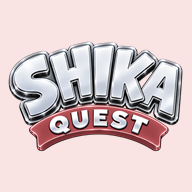
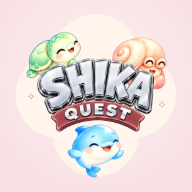
ようせい3体のE案をiPhone・Android用PWAアイコンに反映（1.45）

diff --git a/index.html b/index.html
@@ -7,10 +7,10 @@
   <meta name="description" content="はまべの ゴミを ひろって、うみの ようせいを そだてよう。親子で参加するビーチクリーンイベント用のアプリです。">
   <meta name="theme-color" content="#fbfaf6">
   <link rel="manifest" href="manifest.json">
-  <link rel="icon" href="icons/favicon-32.png?v=1.44" type="image/png" sizes="32x32">
-  <link rel="icon" href="icons/favicon-16.png?v=1.44" type="image/png" sizes="16x16">
-  <link rel="icon" href="icons/favicon-48.png?v=1.44" type="image/png" sizes="48x48">
-  <link rel="apple-touch-icon" href="icons/apple-touch-icon.png?v=1.44" sizes="180x180">
+  <link rel="icon" href="icons/favicon-32.png?v=1.45" type="image/png" sizes="32x32">
+  <link rel="icon" href="icons/favicon-16.png?v=1.45" type="image/png" sizes="16x16">
+  <link rel="icon" href="icons/favicon-48.png?v=1.45" type="image/png" sizes="48x48">
+  <link rel="apple-touch-icon" href="icons/apple-touch-icon.png?v=1.45" sizes="180x180">
   <meta name="application-name" content="しかクエ">
   <meta name="mobile-web-app-capable" content="yes">
   <meta name="apple-mobile-web-app-capable" content="yes">

diff --git a/service-worker.js b/service-worker.js
@@ -16,7 +16,7 @@
  * 動画は 少しずつ（Range で）読まれるため、ここで まとめて 返すと iPhone で 再生 できない ことが ある。
  * 圏外の ときは 動画が 読めず、いままでの 絵（beach.webp。ここで 保存している）の まま になる。
  */
-const APP_VERSION = "1.44";
+const APP_VERSION = "1.45";
 const CACHE = "bct-" + APP_VERSION;
 const FILES = [
   "./",

diff --git a/README.md b/README.md
@@ -1,5 +1,7 @@
 # SHIKA QUEST
 
+**1.45（2026-10-22）**：PWAアイコンを承認済みE案へ変更。ピンクの花形背景にロゴとカメ・ヤドカリ・イルカを配置しました。iPhone用180px、Android用192px・512px・安全域に収めたmaskable版を用意しています。
+
 **1.44（2026-10-22）**：PWA・Appleホーム画面用アイコンの背景を決定案Cの淡いピンク（#F9E3E3）へ変更。大型かいじゅうは元のゴミ画像を活かした「ビニールぶくろ キング」「ペットボトル キング」に変更しました。袋はニヤリ、ボトルはムスッとした表情で、王冠をそれぞれの持ち手・キャップに合わせています。得点・報酬・10回タップのルールは従来どおりです。
 
 **1.43（2026-10-21）**：★3限定の「シュートめいじん賞」（カメ）・「はまべのヒーロー賞」（ヤドカリ）を追加。PWA名は「しかクエ」に変更。初回はスポットライトを浴びた3匹から選び、タップでジャンプ、説明付きの「はい／いいえ」で確認します。バスターズは画面内に収まるレイアウトに変更し、大型かいじゅうを悪魔・どろぼうの姿に描き分けました。
@@ -15,7 +17,7 @@
 1.31では背景と収集車をホームと同じ画風に刷新し、山並みの奥にごみ処理場を描きました。ゴミ6種類はホームと同じアイコンを使用し、木材の表記を「もくざい」に修正しています。
 
 親子で参加するビーチクリーンイベント（想定：30組・約100名）のための、スマホ向けWebアプリ（PWA）です。
-**アプリ名・ブラウザの題名は「SHIKA QUEST」、PWAの表示名は「しかクエ」**です。PWAには銀色と落ち着いた赤のロゴ全体、ブラウザの小さなファビコンには同じ配色のSQを使います。
+**アプリ名・ブラウザの題名は「SHIKA QUEST」、PWAの表示名は「しかクエ」**です。PWAには銀色と落ち着いた赤のロゴと3体のようせい、ブラウザの小さなファビコンには同じ配色のSQを使います。
 テーマは「海がきれいになると、海の仲間が喜んで育つ」。自分の **うみの ようせい**（イルカ・ウミガメ・ヤドカリの姿をした海の妖精）を育てます。
 
 **遊びの流れ（メインループ）**

diff --git a/docs/quest-145.md b/docs/quest-145.md
@@ -1,0 +1,11 @@
+# しかクエ 1.45
+
+承認済みのアイコンE案を採用。花形の明るいピンク背景に、カメ・ヤドカリ・イルカと銀色／落ち着いた赤のロゴを配置。
+
+- iPhone: `icons/apple-touch-icon.png`（180×180、不透明、角丸はOS側で適用）。
+- Android: `icons/icon-192.png`・`icons/icon-512.png`（通常用）と `icons/icon-maskable-512.png`（切り抜き用）。
+- maskable版はキャラクターとロゴの実際の不透明画素から必要な縮小率を算出。中央の半径40%の安全域からさらに8px内側へ収め、背景は端まで描画。
+- PWA名「しかクエ」は維持。アイコン参照とサービスワーカーを1.45へ更新。
+- 再生成: `node tools/export-fairy-pwa-icons.mjs`。`tools/pwa-icon-E.svg`の配置と既存の`assets/opening`の画像を使用。
+
+検証: 4画像の生成・不透明度確認、maskable安全域（全キャラ・ロゴ画素が半径196.8px以内）、iPhone/Android画像の目視確認。更新の単体テスト6件と`tests/e2e/quest-143.mjs`（1.45のアイコン参照・ピンク背景・PWA名・保存・オフライン・ゲーム動作）が成功。
